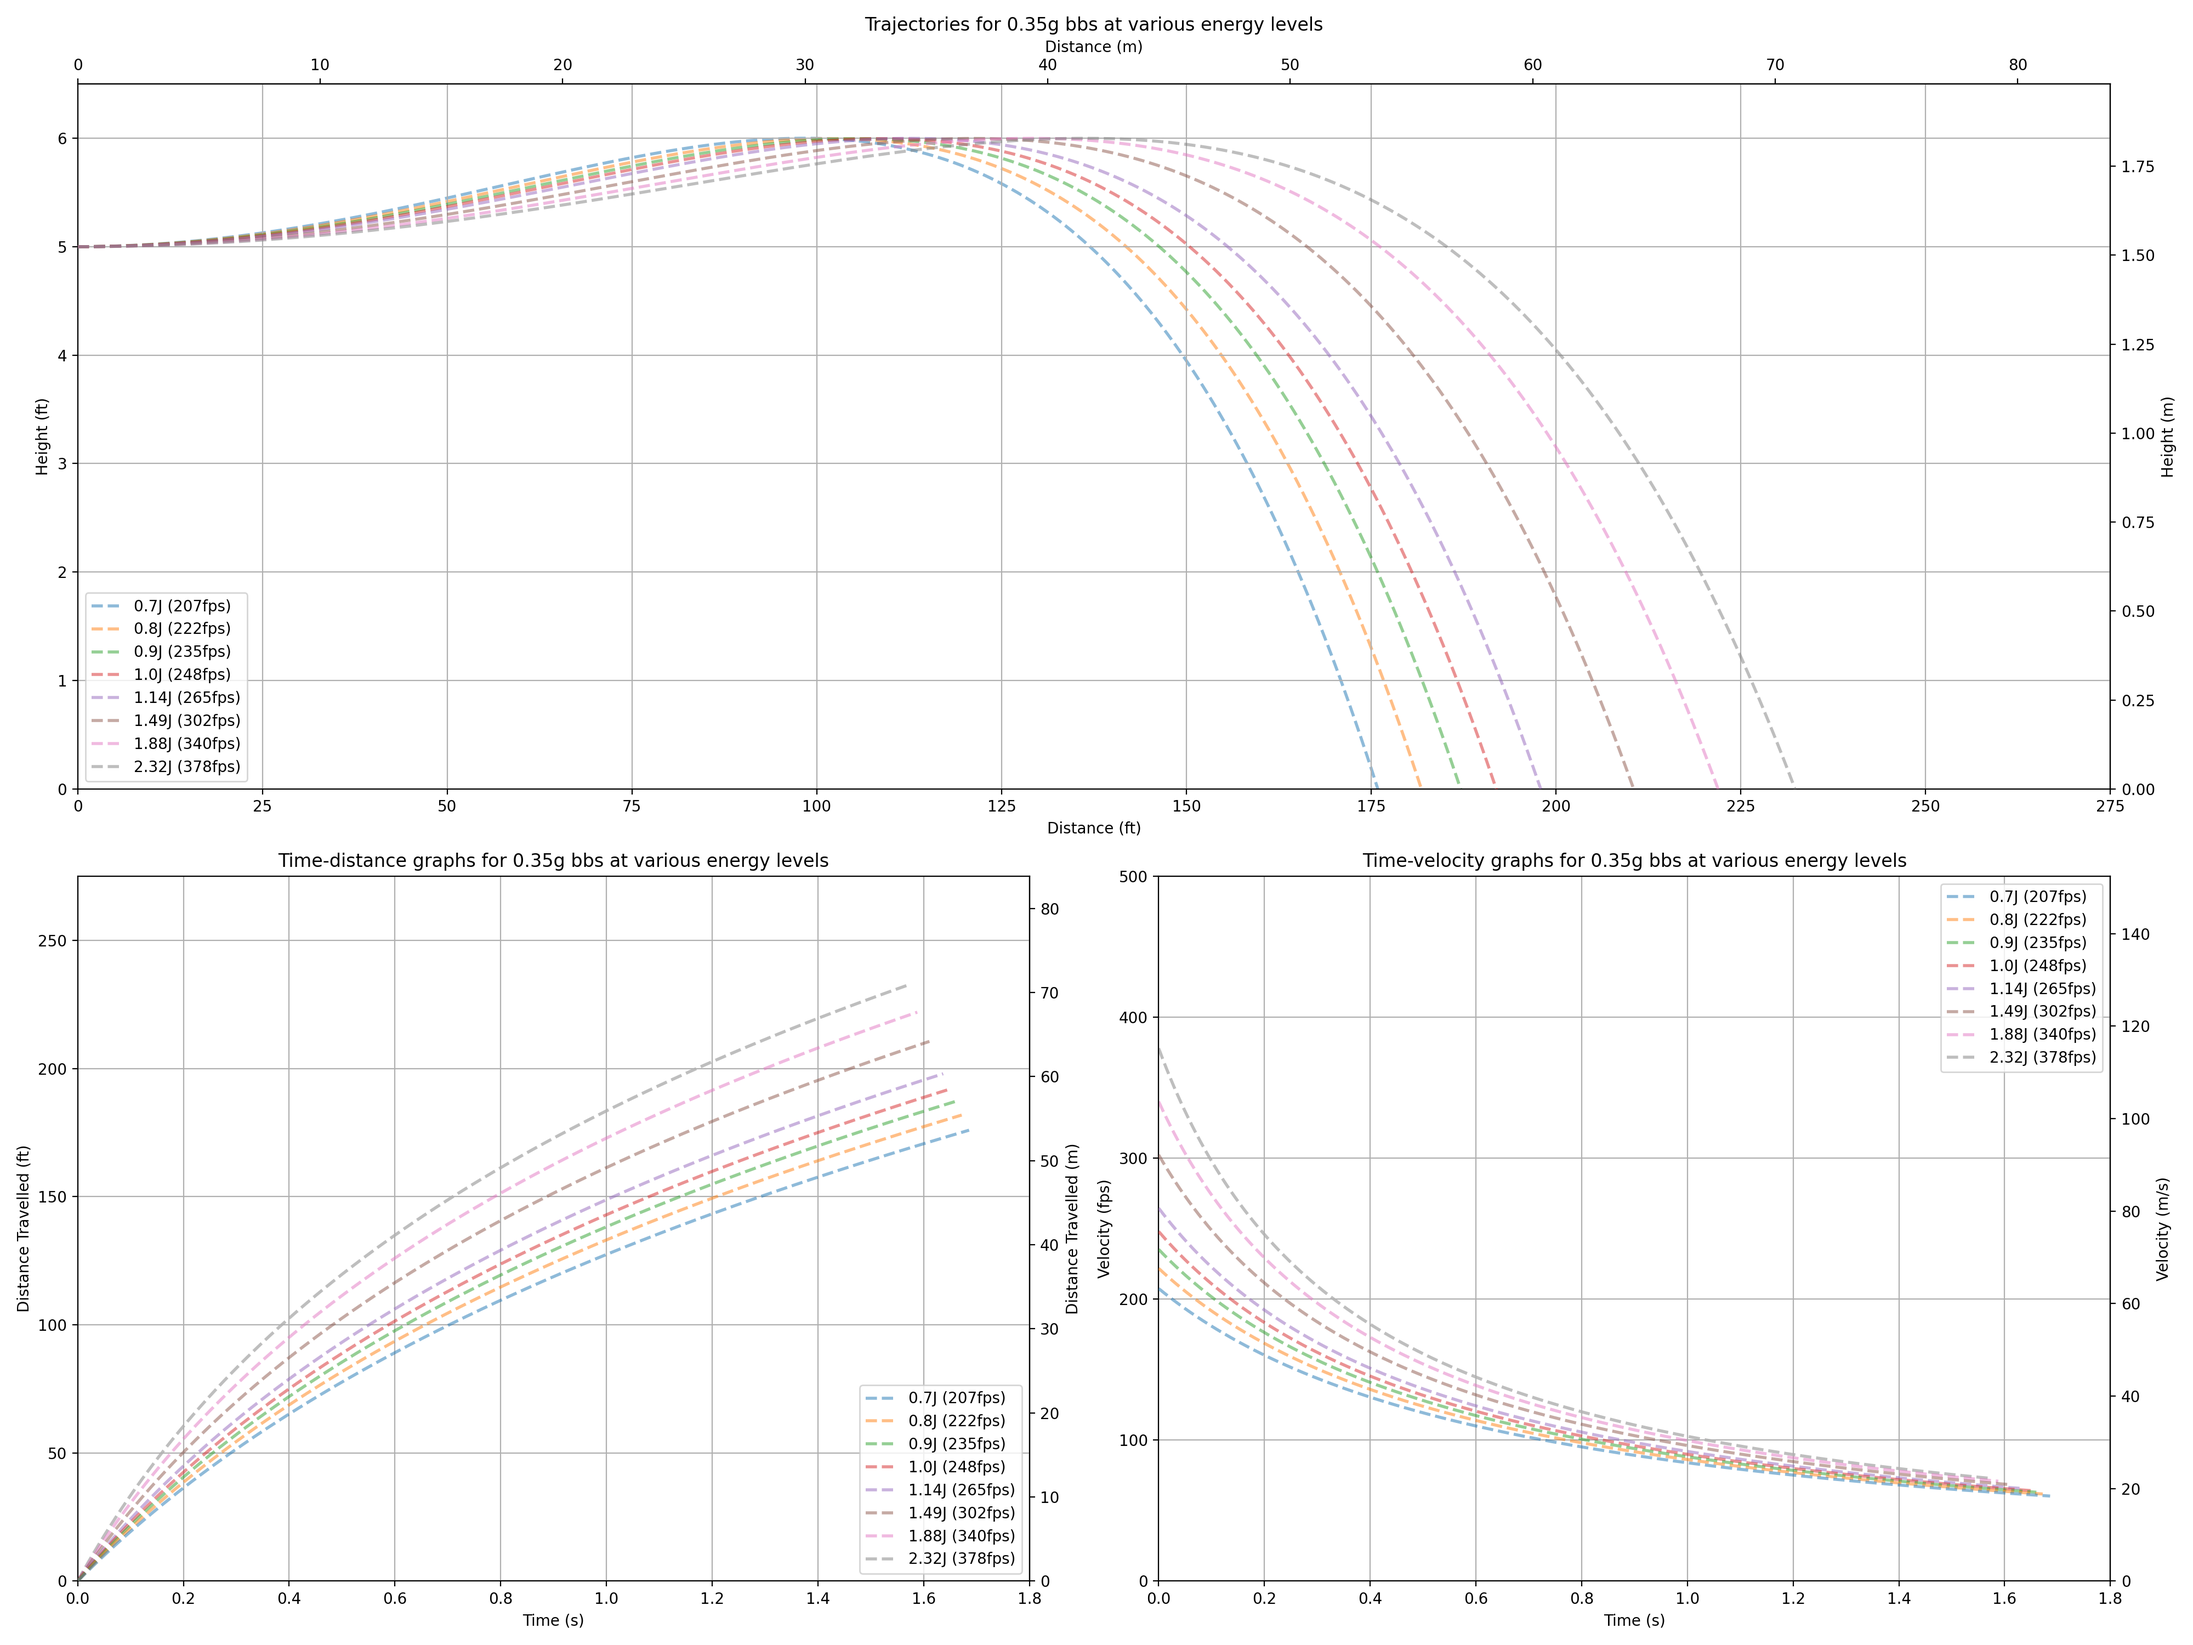
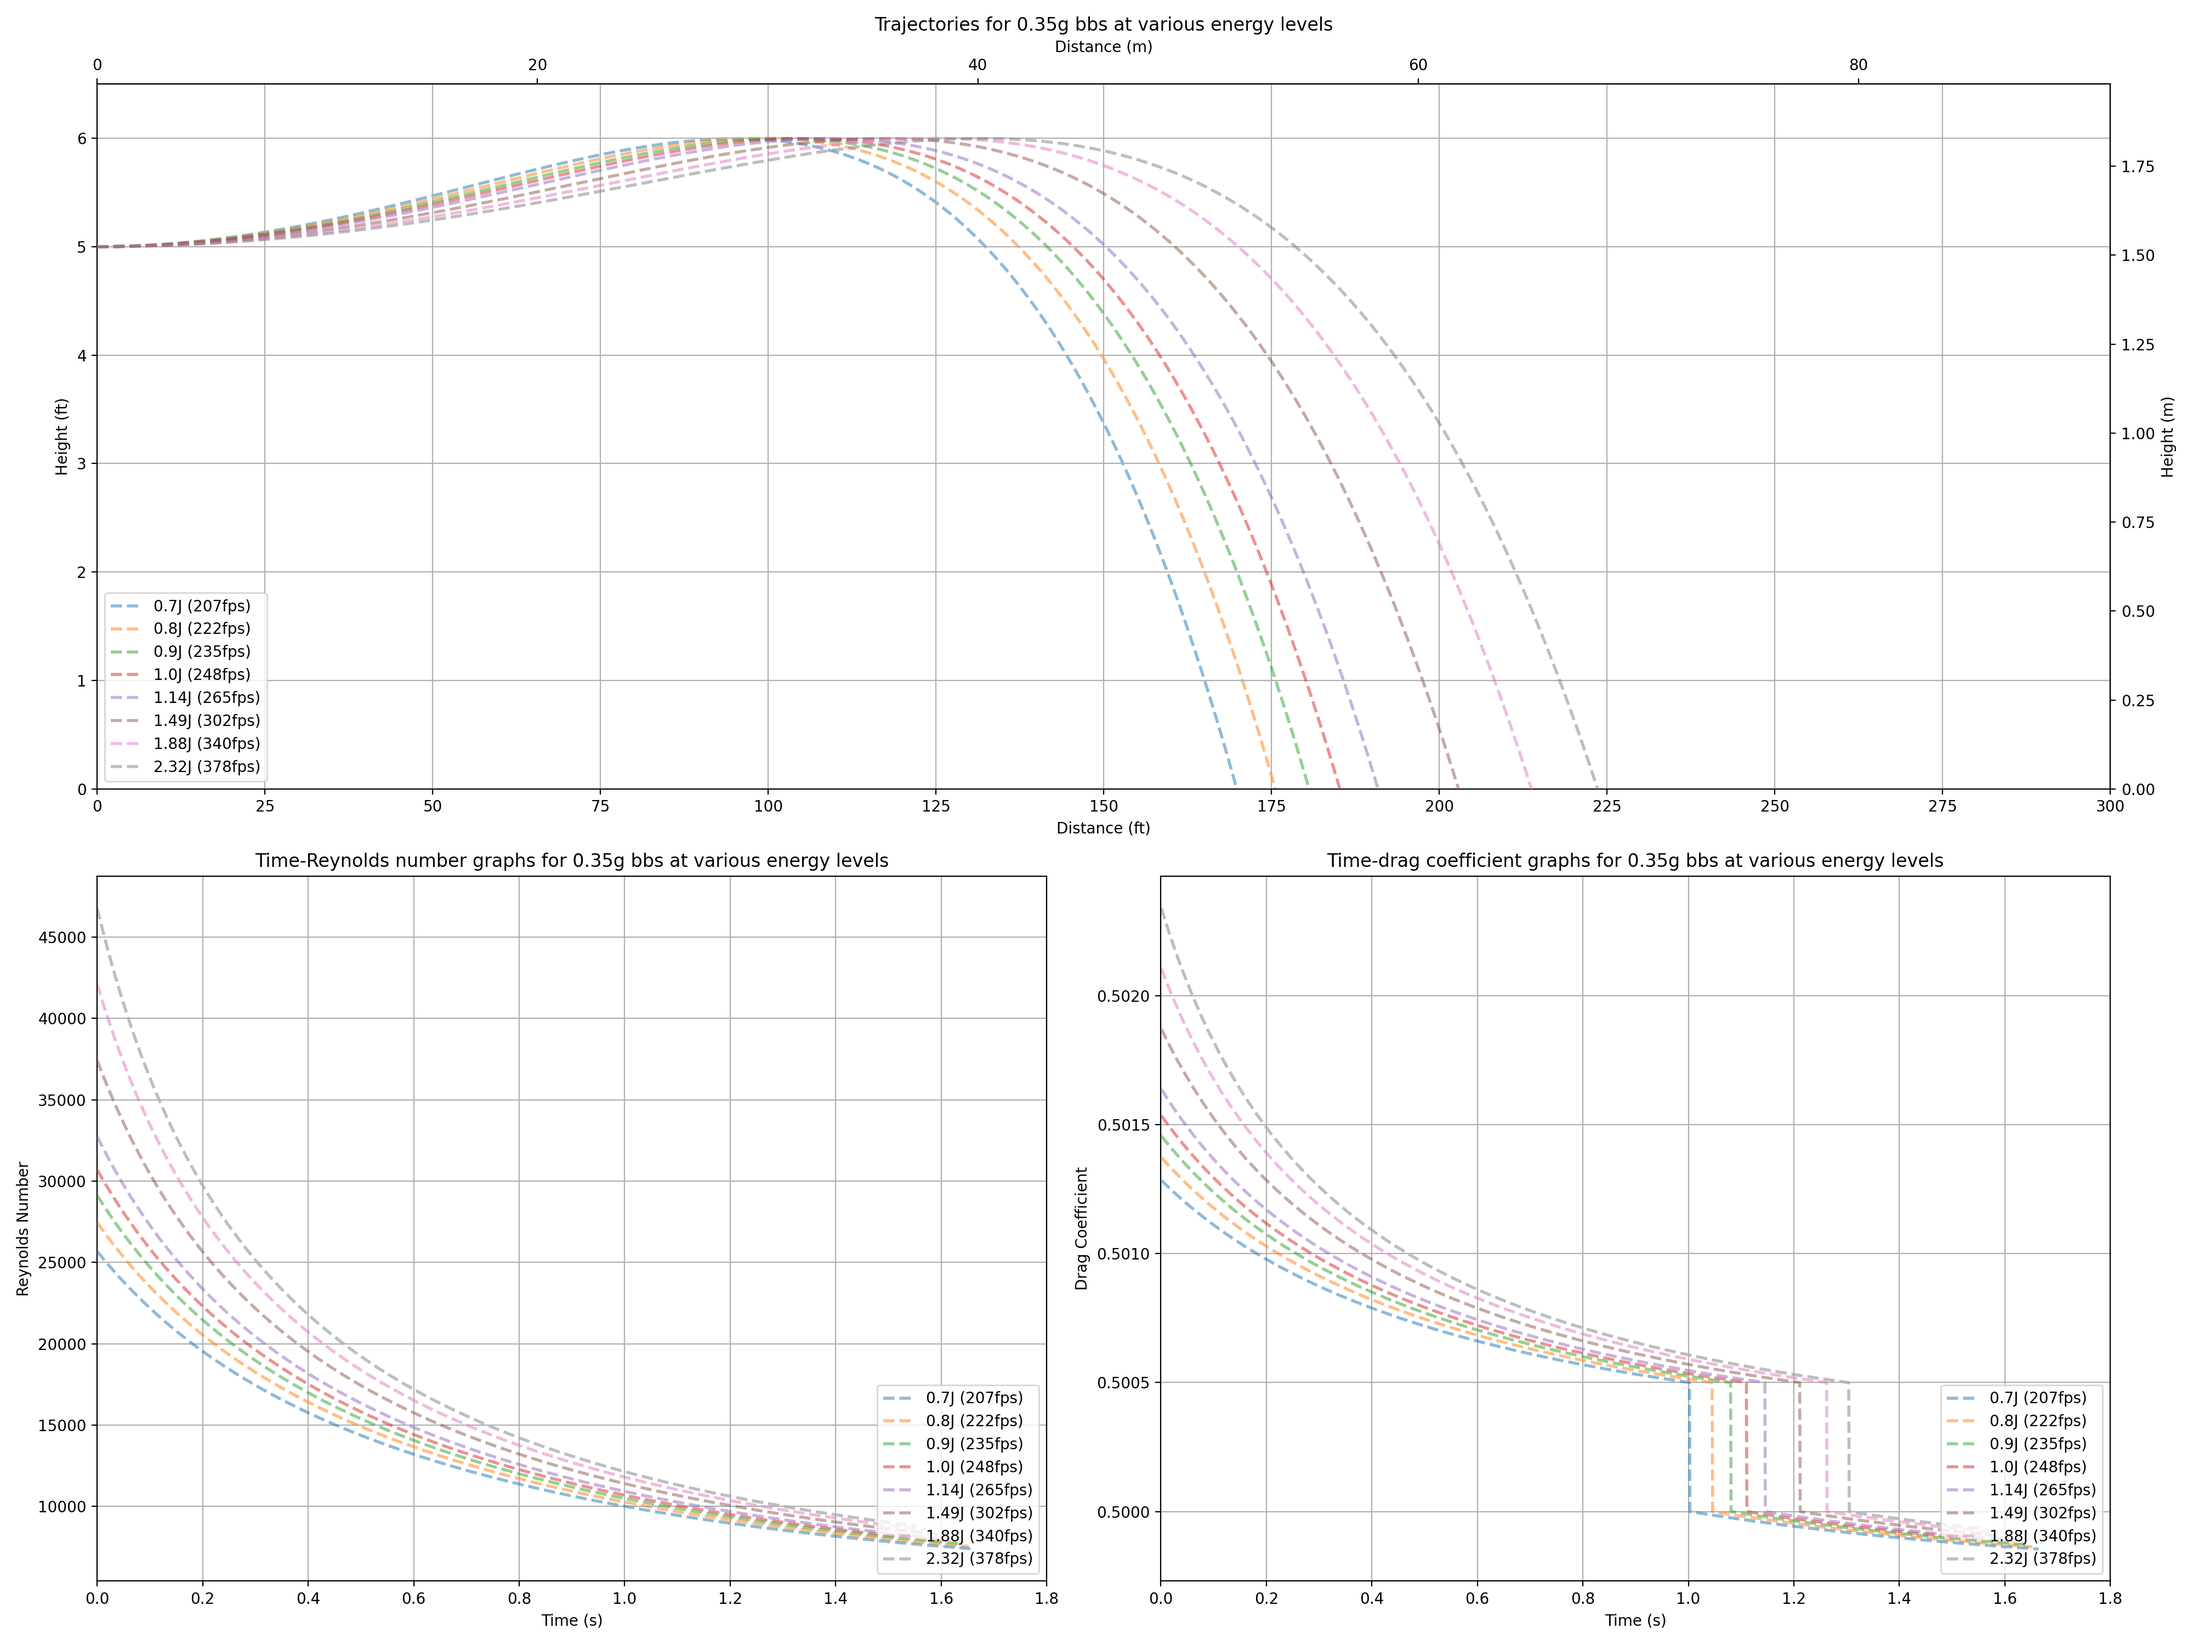
Add calc drag coef

diff --git a/main.py b/main.py
@@ -29,6 +29,19 @@ MASSES =    (0.0002, 0.00025, 0.00028, 0.0003,
             0.00032, 0.00035, 0.0004, 0.00045, 0.0005)
 CLAMP_AXES = True
 
+REYNOLDS_GRAPH = [
+    [1.0E+02,    1.500],
+    [1.0E+03,    0.750],
+    [1.0E+04,    0.500],
+    [1.0E+05,    0.505],
+    [2.0E+05,    0.510],
+    [3.0E+05,    0.100],
+    [1.0E+06,    0.150],
+    [2.0E+06,    0.250],
+    [6.0E+06,    0.300],
+    [1.0E+08,    0.400],
+]
+
 def remap(x, in_min, in_max, out_min, out_max):
     return (x - in_min) * (out_max - out_min) / (in_max - in_min) + out_min
 
@@ -49,14 +62,26 @@ class BB_Class:
         self.initial_rpm = self.angular_velocity * 9.5493
         self.position = INITIAL_POSITION.copy()
         self.moment_of_inerta = (2/5)*mass*BB_RADIUS**2
+        self.drag_coef = self.update_drag_coef()
         # self.ballistic_coefficient = mass/(SPHERE_DRAG_COEF + SPHERE_FRONTAL_AREA)
         self.flight_time = 0
 
-    def reynolds_number(self):
-        return (p*w*b**2)/u
+    def get_reynolds_number(self):
+        velocity = sqrt(self.velocity[0]**2 + self.velocity[1]**2)
+        reynolds_number = (AIR_DENSITY * velocity * BB_DIAMETER) / AIR_DYNAMIC_VISCOSITY
+        return reynolds_number
 
-    def drag_coef(self):
-        return 24/self.reynolds_number()
+    def update_drag_coef(self):
+        reynolds_current = self.get_reynolds_number()
+        for (i, (reynolds_lower, drag_coef_lower)) in enumerate(REYNOLDS_GRAPH):
+            if reynolds_current < reynolds_lower:
+                reynolds_upper, drag_coef_upper = REYNOLDS_GRAPH[i+1]
+                drag_coef = remap(reynolds_current, reynolds_lower, reynolds_upper, drag_coef_lower, drag_coef_upper)
+                self.drag_coef = drag_coef
+                return
+        self.drag_coef = 1.5
+        return
+            
 
     def vortex_strength(self) -> float:
         return 2*pi*BB_RADIUS**2*self.angular_velocity
@@ -85,9 +110,9 @@ class BB_Class:
             self.angular_velocity*BB_DIAMETER*BB_RADIUS
         shear_torque = BB_RADIUS * shear_force
         shear_delta = (shear_torque / self.moment_of_inerta) * TIMESTEP
-
+        drag_coef = self.drag_coef
         friction_torque = pi*self.angular_velocity**2*BB_RADIUS**4 * \
-            BB_DIAMETER*AIR_DENSITY*SPHERE_DRAG_COEF
+            BB_DIAMETER*AIR_DENSITY*drag_coef
         friction_delta = (friction_torque / self.moment_of_inerta) * TIMESTEP
         self.angular_velocity = self.angular_velocity - shear_delta - friction_delta
 
@@ -105,8 +130,9 @@ class BB_Class:
     def calc_drag(self) -> list:
         speed = sqrt(self.velocity[0]**2 + self.velocity[1]**2)
         direction = atan2(self.velocity[0], self.velocity[1])
+        drag_coef = self.drag_coef
         # https://en.wikipedia.org/wiki/Drag_equation
-        F = SPHERE_DRAG_COEF*0.5*AIR_DENSITY*speed**2*SPHERE_FRONTAL_AREA
+        F = drag_coef*0.5*AIR_DENSITY*speed**2*SPHERE_FRONTAL_AREA
         # F = 6*pi*BB_RADIUS*AIR_DYNAMIC_VISCOSITY*speed # https://en.wikipedia.org/wiki/Stokes%27_law
         delta_speed = F/self.mass
         delta_X = sin(direction) * delta_speed
@@ -133,17 +159,18 @@ class BB_Class:
 
     def run_sim(self) -> dict:
         points = []
-        points.append((self.flight_time, self.position, self.velocity))
+        points.append((self.flight_time, self.position, self.velocity, self.drag_coef, self.get_reynolds_number()))
         max_x = 0
         max_y = 0
         while self.position[1] > 0:
+            self.update_drag_coef()
             self.update_angular_velocity()
             self.update_velocity()
             self.update_position()
             max_x = max(max_x, self.position[0])
             max_y = max(max_y, self.position[1])
             self.flight_time += TIMESTEP
-            points.append((self.flight_time, self.position, self.velocity))
+            points.append((self.flight_time, self.position, self.velocity, self.drag_coef, self.get_reynolds_number()))
         result = {
             "mass": self.mass,
             "energy": self.initial_energy,
@@ -177,6 +204,8 @@ def plot_graphs(series, datapoint, subject):
         trajectory_title = f'Trajectories at {datapoint} joules for various bb weights'
         time_distance_title = f'Time-distance graphs at {datapoint} joules for various bb weights'
         time_velocity_title = f'Time-velocity graphs at {datapoint} joules for various bb weights'
+        time_drag_coef_title = f'Time-drag coefficient graphs at {datapoint} joules for various bb weights'
+        time_reynolds_title = f'Time-Reynolds number graphs at {datapoint} joules for various bb weights'
         # print(f'Plotting graphs for {datapoint}J bbs')
     else:
         mass_g = round(datapoint*1000, 2)
@@ -184,10 +213,14 @@ def plot_graphs(series, datapoint, subject):
         trajectory_title = f'Trajectories for {mass_g}g bbs at various energy levels'
         time_distance_title = f'Time-distance graphs for {mass_g}g bbs at various energy levels'
         time_velocity_title = f'Time-velocity graphs for {mass_g}g bbs at various energy levels'
+        time_drag_coef_title = f'Time-drag coefficient graphs for {mass_g}g bbs at various energy levels'
+        time_reynolds_title = f'Time-Reynolds number graphs for {mass_g}g bbs at various energy levels'
         # print(f'Plotting graphs for {mass_g}g bbs')
     plot_trajectory(fig, series, trajectory_title, subject)
-    plot_time_distance(fig, series, time_distance_title, subject)
-    plot_time_velocity(fig, series, time_velocity_title, subject)
+    # plot_time_distance(fig, series, time_distance_title, subject)
+    # plot_time_velocity(fig, series, time_velocity_title, subject)
+    plot_time_drag_coef(fig, series, time_drag_coef_title, subject)
+    plot_time_reynolds(fig, series, time_reynolds_title, subject)
     fig.savefig(directory)
 
 
@@ -213,7 +246,7 @@ def plot_trajectory(fig, series, title, subject):
         trajectory = ax.plot(positions_x, positions_y)[0]
         configure_line(i, trajectory, subject, result)
     if CLAMP_AXES:
-        ax.set_xlim(xmin=0, xmax=275)
+        ax.set_xlim(xmin=0, xmax=300)
         ax.set_ylim(ymin=0, ymax=6.5)
     secxax = ax.secondary_xaxis('top', functions=(ft2m, m2ft))
     secyax = ax.secondary_yaxis('right', functions=(ft2m, m2ft))
@@ -260,6 +293,40 @@ def plot_time_velocity(fig, series, title, subject):
     secyax = ax.secondary_yaxis('right', functions=(ft2m, m2ft))
     secyax.set_ylabel("Velocity (m/s)")
     ax.legend(loc='upper right')
+
+def plot_time_drag_coef(fig, series, title, subject):
+    ax = fig.add_subplot(2, 2, 4)
+    ax.grid(b=True)
+    ax.set_title(title)
+    ax.set_ylabel('Drag Coefficient')
+    ax.set_xlabel('Time (s)')
+    for i, result in enumerate(series):
+        points = result["points"]
+        time = [point[0] for point in points]
+        drag_coef = [point[3] for point in points]
+        trajectory = ax.plot(time, drag_coef)[0]
+        configure_line(len(series)-i, trajectory, subject, result)
+    if CLAMP_AXES:
+        ax.set_xlim(xmin=0, xmax=1.8)
+        # ax.set_ylim(ymin=0, ymax=0.5)
+    ax.legend(loc='lower right')
+
+def plot_time_reynolds(fig, series, title, subject):
+    ax = fig.add_subplot(2, 2, 3)
+    ax.grid(b=True)
+    ax.set_title(title)
+    ax.set_ylabel('Reynolds Number')
+    ax.set_xlabel('Time (s)')
+    for i, result in enumerate(series):
+        points = result["points"]
+        time = [point[0] for point in points]
+        drag_coef = [point[4] for point in points]
+        trajectory = ax.plot(time, drag_coef)[0]
+        configure_line(len(series)-i, trajectory, subject, result)
+    if CLAMP_AXES:
+        ax.set_xlim(xmin=0, xmax=1.8)
+        # ax.set_ylim(ymin=0, ymax=0.5)
+    ax.legend(loc='lower right')
 
 def plot_spin_mods(results):
     fig, ax = plt.subplots(subplot_kw={"projection": "3d"}, figsize=(15,10))
